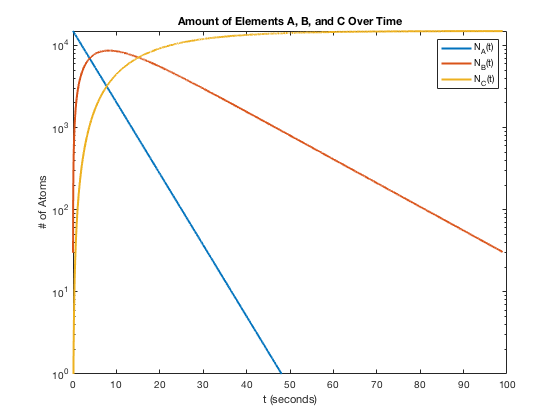
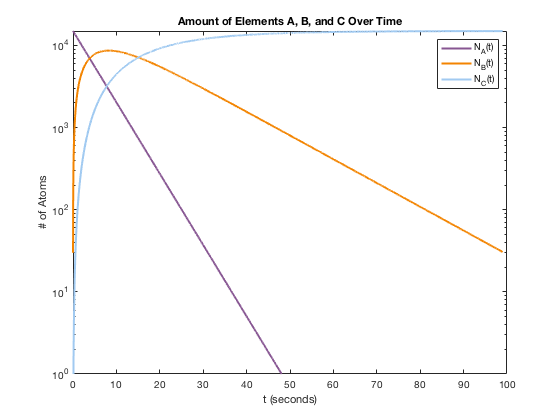
redid high quality graphs and code

diff --git a/euler_method_and_error.m b/euler_method_and_error.m
@@ -1,69 +1,72 @@
-clear vars;
+clear all;
 k_A = 1/5
 A_0 = 15000;
 N_A_prime = @(t, N_A) -k_A*N_A;
 h = [1, 0.1, 0.01];
 
-x = 0:0.01:48
-y1 = 15000*exp(-0.2*x)
+x = 0:0.01:48;
+y1 = 15000*exp(-0.2*x);
 
 figure
-plot(x,y1, 'Color', [135/255,86/255,146/255], 'LineWidth', 2)
-hold on
+%plot(x,y1, 'Color', [135/255,86/255,146/255], 'LineWidth', 2)
+
 
 h = 0.01
-plot(0:h:48, ode_euler(N_A_prime, 0:h:48, A_0), 'Color', [243/255,132/255,0], 'LineWidth', 2)
-x = 0:h:48
-y1 = 15000*exp(-0.2*x)
-%semilogy(0:h:48, abs(y1 - ode_euler(N_A_prime, 0:h:48, A_0)), 'Color', [0,136/255,86/255], 'LineWidth', 2)
+%plot(0:h:48, ode_euler(N_A_prime, 0:h:48, A_0), 'Color', [243/255,132/255,0], 'LineWidth', 2)
+x = 0:h:48;
+y1 = 15000*exp(-0.2*x);
+plot(x, abs(y1 - ode_euler(N_A_prime, 0:h:48, A_0)), 'Color', [243/255,132/255,0], 'LineWidth', 2)
 
+hold on
 h = 0.1
-plot(0:h:48, ode_euler(N_A_prime, 0:h:48, A_0), 'Color', [161/255,202/255,241/255], 'LineWidth', 2)
-x = 0:h:48
-y1 = 15000*exp(-0.2*x)
-%semilogy(0:h:48, abs(y1 - ode_euler(N_A_prime, 0:h:48, A_0)), 'Color', [132/255,132/255,130/255], 'LineWidth', 2)
+%plot(0:h:48, ode_euler(N_A_prime, 0:h:48, A_0), 'Color', [161/255,202/255,241/255], 'LineWidth', 2)
+x = 0:h:48;
+y1 = 15000*exp(-0.2*x);
+plot(0:h:48, abs(y1 - ode_euler(N_A_prime, 0:h:48, A_0)), 'Color', [161/255,202/255,241/255], 'LineWidth', 2)
 
 h = 1
-plot(0:h:48, ode_euler(N_A_prime, 0:h:48, A_0), 'Color', [190/255,0,50/255], 'LineWidth', 2)
-x = 0:h:48
-y1 = 15000*exp(-0.2*x)
-%semilogy(0:h:48, abs(y1 - ode_euler(N_A_prime, 0:h:48, A_0)), 'Color', [194/255,178/255,128/255], 'LineWidth', 2)
+%plot(0:h:48, ode_euler(N_A_prime, 0:h:48, A_0), 'Color', [190/255,0,50/255], 'LineWidth', 2)
+x = 0:h:48;
+y1 = 15000*exp(-0.2*x);
+plot(0:h:48, abs(y1 - ode_euler(N_A_prime, 0:h:48, A_0)), 'Color', [190/255,0,50/255], 'LineWidth', 2)
 
 
 hold off
-legend('h=analytical','h=0.01','h=0.1', 'h=1')
-title("Euler Approximations And Their Error")
-ylabel('# of Atoms')
+axis([0 48 1 600])
+set(gca,'yscale','log')
+legend('h=0.01 Error','h=0.1 Error','h=1 Error')
+title("Absolute Error of Euler Methods")
+ylabel('Absolute Error (# of Atoms)')
 xlabel('t (seconds)')
 axis tight
 
-x = 45:0.01:48
-y1 = 15000*exp(-0.2*x)
-figure
-semilogy(x,y1, 'Color', [135/255,86/255,146/255], 'LineWidth', 2)
-hold on
-
-h = 0.01
-semilogy(45:h:48, ode_euler(N_A_prime, 45:h:48, y1(1)), 'Color', [243/255,132/255,0], 'LineWidth', 2)
-x = 45:h:48
-y1 = 15000*exp(-0.2*x)
-
-
-h = 0.1
-semilogy(45:h:48, ode_euler(N_A_prime, 45:h:48, y1(1)), 'Color', [161/255,202/255,241/255], 'LineWidth', 2)
-x = 45:h:48
-y1 = 15000*exp(-0.2*x)
-
-
-h = 1
-semilogy(45:h:48, ode_euler(N_A_prime, 45:h:48, y1(1)), 'Color', [190/255,0,50/255], 'LineWidth', 2)
-x = 45:h:48
-y1 = 15000*exp(-0.2*x)
-
-
-hold off
-legend('h=analytical','h=0.01','h=0.1', 'h=1')
-title("Euler Approximations And Their Error")
-ylabel('# of Atoms')
-xlabel('t')
-axis tight
+% x = 45:0.01:48
+% y1 = 15000*exp(-0.2*x)
+% figure
+% semilogy(x,y1, 'Color', [135/255,86/255,146/255], 'LineWidth', 2)
+% hold on
+% 
+% h = 0.01
+% semilogy(45:h:48, ode_euler(N_A_prime, 45:h:48, y1(1)), 'Color', [243/255,132/255,0], 'LineWidth', 2)
+% x = 45:h:48
+% y1 = 15000*exp(-0.2*x)
+% 
+% 
+% h = 0.1
+% semilogy(45:h:48, ode_euler(N_A_prime, 45:h:48, y1(1)), 'Color', [161/255,202/255,241/255], 'LineWidth', 2)
+% x = 45:h:48
+% y1 = 15000*exp(-0.2*x)
+% 
+% 
+% h = 1
+% semilogy(45:h:48, ode_euler(N_A_prime, 45:h:48, y1(1)), 'Color', [190/255,0,50/255], 'LineWidth', 2)
+% x = 45:h:48
+% y1 = 15000*exp(-0.2*x)
+% 
+% 
+% hold off
+% legend('h=analytical','h=0.01','h=0.1', 'h=1')
+% title("Euler Approximations And Their Error")
+% ylabel('# of Atoms')
+% xlabel('t')
+% axis tight

diff --git a/euler_method_2_2_3.m b/euler_method_2_2_3.m
@@ -1,0 +1,81 @@
+clear all;
+
+% Define constants and N_A'(t)
+k_A = 1/5;
+A_0 = 15000;
+N_A_prime = @(t, N_A) -k_A*N_A;
+
+% Generate values from out function
+t = linspace(0, 50, 5001);
+y1 = A_0 * exp(-k_A * t);
+y2 = ode_euler(N_A_prime, t, A_0); % h = 0.01
+y3 = ode_euler(N_A_prime, t(1:10:end), A_0); % h = 0.1
+y4 = ode_euler(N_A_prime, t(1:100:end), A_0); % h = 1
+
+% Colors for the lines that will be plotted
+colors = [29, 29, 29;
+          235, 206, 43;
+          112, 44, 140;
+          219, 105, 23]/255;
+
+% Set the figure properties
+fig = figure(1);
+fig.Resize = 'off';
+fig.PaperUnits = 'inches';
+fig.Units = 'inches';
+fig.PaperPositionMode = 'manual';
+fig.PaperPosition = [0, 0, 10, 5];
+fig.PaperSize = [10, 6.18];
+fig.Position = [0.1, 0.1, 9.9, 6.08];
+
+% Background color
+fig.Color = [253, 253, 253]/255;
+
+% Prevent the background color from chaning on save
+fig.InvertHardcopy = 'off';
+
+% Set axes properties
+ax = gca;
+ax.FontName = 'LaTeX';
+ax.TickLabelInterpreter = 'LaTeX';
+ax.FontSize = 16;
+ax.YLim = [1, 15000];
+ax.XLabel.Interpreter = 'LaTeX';
+ax.YLabel.Interpreter = 'LaTeX';
+ax.YLabel.String = 'Number of Atoms of Element A';
+ax.XLabel.String = 't (seconds)';
+ax.ColorOrder = colors;
+ax.Box = 'off';
+ax.LineWidth = 1.5;
+ax.YGrid = 'on';
+ax.XColor = [29, 29, 29]/255;
+ax.YColor = [29, 29, 29]/255;
+ax.Color = [253, 253, 253]/255;
+
+% Adjust these settings to switch from linear to log
+%ax.YScale = 'log';
+ax.YTick = [1, 3000, 6000, 9000, 12000, 15000];
+%ax.YTick = round(logspace(log10(1), log10(15000), 6));
+ax.YMinorGrid = 'off';
+
+
+
+% Plot the functions
+hold on;
+p = [plot(t, y1); % exact solution
+     plot(t, y2); % h = 0.01
+     plot(t(1:10:end), y3); % h = 0.1
+     plot(t(1:100:end), y4)]; % h = 1
+
+% Set line widths
+set(p, 'LineWidth', 2);
+
+% Add a legend
+lgd = legend('Exact Solution', 'h=0.01','h=0.1','h=1');
+lgd.Box = 'off';
+lgd.Interpreter = 'LaTeX';
+lgd.TextColor = [29, 29, 29]/255;
+
+t = title("Euler Method Approximation of N_{A}(t)");
+
+

diff --git a/decay_chains_with_P.m b/decay_chains_with_P.m
@@ -1,0 +1,24 @@
+clear vars
+
+A_0 = 15000
+P = 5000
+k_A = 1/5
+k_B = 1/15
+
+
+x = 0:0.01:1
+y1 = (A_0 - P / k_A) * exp(-k_A*x) + (P / k_A)
+
+y2 = ((A_0 * k_A - P) / (k_B - k_A)) .* exp(-k_A * x) - ((A_0 * k_A * k_B - P * k_A) / (k_B * (k_B - k_A))) .* exp(-k_B * x) + P / k_B
+
+y3 = ((A_0 * k_A * k_B - P * k_A) / (k_B * (k_B - k_A))) .* (exp(-k_B * x) - 1) - ((k_B * (A_0 * k_A - P)) / (k_A * (k_B - k_A))) * (exp(-k_A * x) - 1) + P * x
+semilogy(x,y1, 'LineWidth', 2, 'Color', [135/255,86/255,146/255])
+ylim([1 inf])
+hold on
+semilogy(x,y2, 'LineWidth', 2, 'Color', [243/255,132/255,0])
+semilogy(x,y3, 'LineWidth', 2, 'Color', [161/255,202/255,241/255])
+hold off
+legend('N_{A}(t)','N_{B}(t)','N_{C}(t)')
+title("Amount of Elements A, B, and C Over Time")
+ylabel('# of Atoms')
+xlabel('t (seconds)')

diff --git a/decay_chains.m b/decay_chains.m
@@ -1,14 +1,14 @@
 clear vars
 
-x = [0:0.01:99]
+x = 0:0.01:99
 y1 = 15000*exp(-0.2*x)
 y2 = ((15000*0.2)/(1/15 - 1/5)) * (exp(-0.2*x) - exp(-(1/15)*x))
 y3 = -7500*exp(-0.2*x) .* (3 * exp((2/15) * x) - 1) + 15000
-plot(x,y1, 'LineWidth', 2)
+semilogy(x,y1, 'LineWidth', 2, 'Color', [135/255,86/255,146/255])
 ylim([1 15000])
 hold on
-plot(x,y2, 'LineWidth', 2)
-plot(x,y3, 'LineWidth', 2)
+semilogy(x,y2, 'LineWidth', 2, 'Color', [243/255,132/255,0])
+semilogy(x,y3, 'LineWidth', 2, 'Color', [161/255,202/255,241/255])
 hold off
 legend('N_{A}(t)','N_{B}(t)','N_{C}(t)')
 title("Amount of Elements A, B, and C Over Time")

diff --git a/ode_euler.m b/ode_euler.m
@@ -1,7 +1,7 @@
 function y = ode_euler(yprime, ts, y_0)
- y = zeros(size(ts));
- y(1) = y_0;
- for n = 2:numel(ts)
- y(n) = y(n-1) + (ts(n)-ts(n-1))*yprime(ts(n-1), y(n-1));
- end
+    y = zeros(size(ts));
+    y(1) = y_0;
+    for n = 2:numel(ts)
+        y(n) = y(n-1) + (ts(n)-ts(n-1))*yprime(ts(n-1), y(n-1));
+    end
 end
